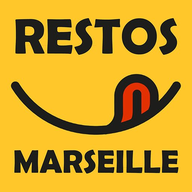
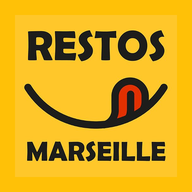
Add files via upload

diff --git a/index.html b/index.html
@@ -471,7 +471,7 @@
 <body>
 
 <header>
-  <div class="logo"><img src="icon-192.png" style="width:36px;height:36px;border-radius:8px;vertical-align:middle;margin-right:10px;">Restos <span>Marseille</span></div>
+  <div class="logo"><img src="icon-192.png" style="width:36px;height:36px;border-radius:4px;vertical-align:middle;margin-right:10px;">Restos <span>Marseille</span></div>
   <div class="header-actions">
     <button class="btn-icon" onclick="refreshData()" title="Actualiser">
       <svg viewBox="0 0 24 24" fill="none" stroke="currentColor" stroke-width="2"><path d="M23 4v6h-6M1 20v-6h6"/><path d="M3.51 9a9 9 0 0114.85-3.36L23 10M1 14l4.64 4.36A9 9 0 0020.49 15"/></svg>
